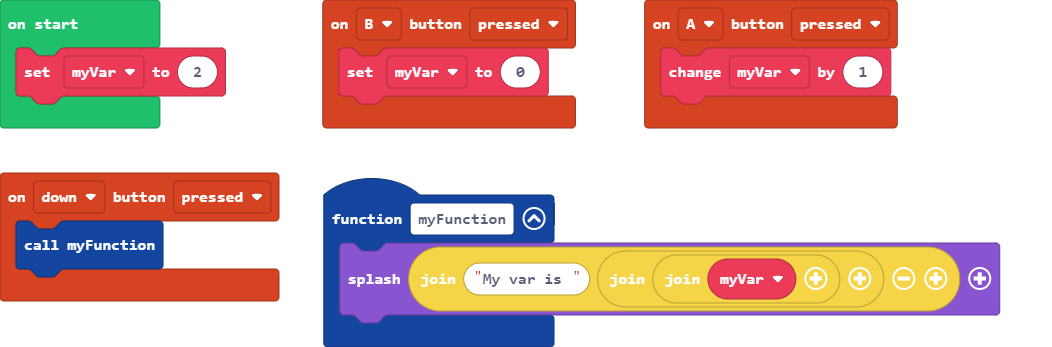
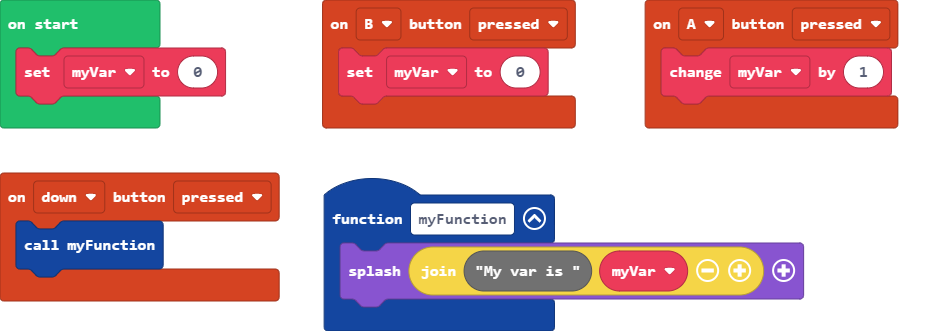
Update main.blocks, main.ts

diff --git a/main.ts b/main.ts
@@ -5,10 +5,10 @@ controller.A.onEvent(ControllerButtonEvent.Pressed, function () {
     myVar += 1
 })
 function myFunction () {
-    game.splash("My var is " + ("" + myVar))
+    game.splash("" + "My var is " + myVar)
 }
 controller.down.onEvent(ControllerButtonEvent.Pressed, function () {
     myFunction()
 })
 let myVar = 0
-myVar = 2
+myVar = 0
